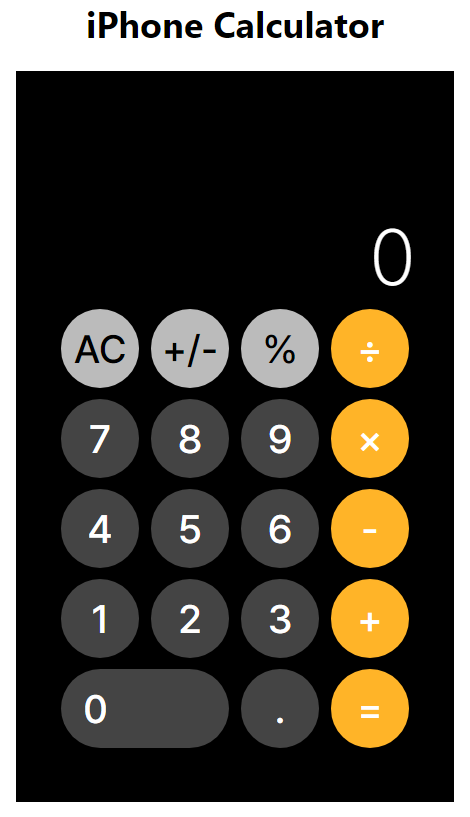
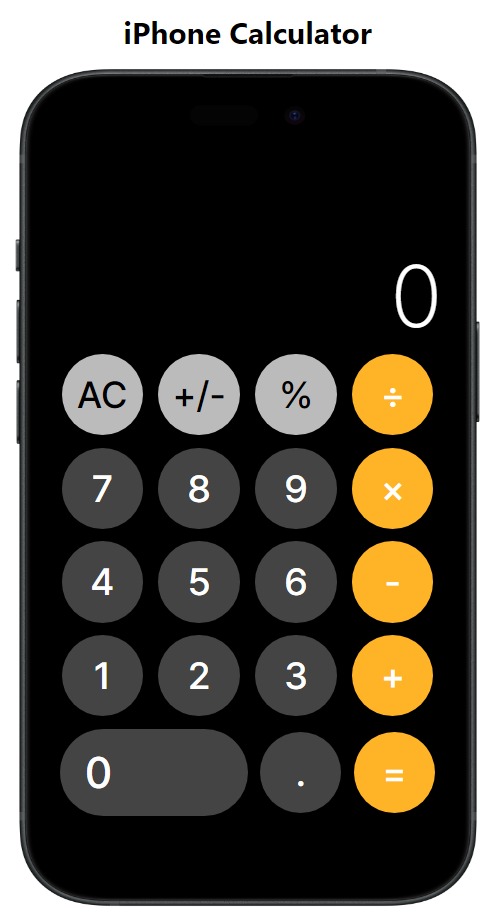
completed

diff --git a/src/App.js b/src/App.js
@@ -14,6 +14,13 @@ function App() {
   const [modePM, setModePM] = useState("");
   const [formula, setFormula] = useState("");
   const [equal, setEqual] = useState(0);
+  const resultFloat = parseFloat(Number(result).toFixed(8));
+  const resultString =
+    resultFloat > 100000000
+      ? resultFloat.toExponential()
+      : `${resultFloat}`.includes(".") > 0
+      ? `${resultFloat}`
+      : `${resultFloat}`.replace(/\B(?=(\d{3})+(?!\d))/g, ",");
 
   function calculation(op) {
     if (modeVar !== "") {
@@ -44,7 +51,6 @@ function App() {
           } else if (modePM === "-") {
             setFormula(equal - preResult * Number(result));
             setResult(`${equal - preResult * Number(result)}`);
-            if (modePM === "") setEqual(Number(result));
             setEqual(0);
             setModePM("");
           } else {
@@ -67,10 +73,9 @@ function App() {
           } else if (modePM === "-") {
             setFormula(equal - preResult / Number(result));
             setResult(`${equal - preResult / Number(result)}`);
-            if (modePM === "") setEqual(Number(result));
             setEqual(0);
             setModePM("");
-          }else {
+          } else {
             setFormula(preResult / Number(result));
             setResult(`${preResult / Number(result)}`);
             if (modePM === "") setEqual(Number(result));
@@ -81,16 +86,17 @@ function App() {
           if (modePM === "") setEqual(Number(result));
         }
       } else if (modeVar === "=") {
-        if (mode === "+") {
+        console.log(`preResult${preResult}`);
+        if (modePM === "+") {
           setFormula(preResult + equal);
           setResult(`${preResult + equal}`);
-        } else if (mode === "-") {
+        } else if (modePM === "-") {
           setFormula(preResult - equal);
           setResult(`${preResult - equal}`);
-        } else if (mode === "×") {
+        } else if (modePM === "×") {
           setFormula(preResult * equal);
           setResult(`${preResult * equal}`);
-        } else if (mode === "÷") {
+        } else if (modePM === "÷") {
           setFormula(preResult / equal);
           setResult(`${preResult / equal}`);
         }
@@ -99,7 +105,7 @@ function App() {
   }
 
   function handleResult(e) {
-    if (result.length === 10) {
+    if (resultString.length === 11) {
       return;
     } else {
       if (mode !== "") {
@@ -119,8 +125,10 @@ function App() {
 
   function noWhite(op) {
     if (mode === op) {
-      if (modeVar === "=") return "round orange";
-      else return "round white";
+      if (modeVar === "=") {
+        if (modePM === "+" || "-" || "×" || "÷") return "round white";
+        else return "round orange";
+      } else return "round white";
     } else {
       return "round orange";
     }
@@ -129,16 +137,13 @@ function App() {
   return (
     <div className="App">
       <div className="calc">
-        <h1>iPhone Calculator</h1>
+        <h2>iPhone Calculator</h2>
+        <img className="iPhoneBorder" src="iPhoneBorder.png" alt="아이폰 테두리"></img>
         <div className="calcBackground">
           <div className="clacBox">
             <div className="resultBox">
-              <div
-                className={
-                  `${Number(result)}`.length < 10 ? "result" : "result2"
-                }
-              >
-                {parseFloat(Number(result).toFixed(8)).toLocaleString()}
+              <div className={resultString.length < 10 ? "result" : "result2"}>
+                {resultString}
               </div>
             </div>
             <div className="buttonBox">
@@ -156,7 +161,8 @@ function App() {
                   modePM,
                   setModePM,
                   setEqual,
-                  formula
+                  formula,
+                  equal,
                 }}
               >
                 <Line1 />

diff --git a/src/App.css b/src/App.css
@@ -8,15 +8,25 @@
 
 .calc {
   display: block;
+  position: relative;
+}
+
+.iPhoneBorder {
+  width: 400px;
+  height: 700px;
+  position: absolute;
+  left: -25px;
+  top: 50px;
 }
 
 .calcBackground {
-  width: 390px;
+  width: 350px;
   height: 650px;
   background-color: #000;
   display: flex;
   justify-content: center;
   align-items: center;
+  border-radius: 45px;
 }
 
 .calcBox {
@@ -44,11 +54,12 @@
   float: right;
   margin-top: 80px;
   color: #fff;
-  font-size: 60px;
+  font-size: 56px;
   font-weight: 200;
   font-family: Pretendard, sans-serif;
   margin-bottom: 12px;
 }
+
 
 .buttonBox {
   width: 100%;
@@ -68,12 +79,12 @@
 .round {
   border-radius: 50%;
   background-color: #fff;
-  width: 70px;
-  height: 70px;
+  width: 65px;
+  height: 65px;
   margin: 5px;
   font-weight: 500;
   font-family: Pretendard, sans-serif;
-  font-size: 35px;
+  font-size: 30px;
   display: flex;
   justify-content: center;
   align-items: center;

diff --git a/src/component/Line1.js b/src/component/Line1.js
@@ -15,29 +15,22 @@ function Line1() {
     setModePM,
     setEqual,
     mode,
-    formula
+    formula,
   } = useContext(ContextBox);
   function resultClear() {
-    setResult("0");
-    if(modeVar === "+" || "-" || "÷" || "×"){
-      setMode(modeVar);
-    }else if(modeVar === "="){
-      setFormula(Number(formula));
-      setModePM("");
-      setMode("");
-    }
+    setResult("");
+    setFormula(0);
+    setMode("");
+    setModeVar("");
+    setModePM("");
+    setEqual(0);
   }
   function resultMinus() {
     if (result.length === 9) {
+      return;
     } else {
-      if (result.includes("-")) {
-        setResult(`${-Number(result)}`);
-      } else {
-        if (result === "0") {
-        } else {
-          setResult(`-${result}`);
-        }
-      }
+      if (result.includes("-")) setResult(`${-Number(result)}`);
+      else setResult(`-${result}`);
     }
   }
   function resultPercent() {

diff --git a/src/component/Line5.js b/src/component/Line5.js
@@ -12,6 +12,8 @@ function Line5() {
     setMode,
     modeVar,
     setModePM,
+    formula,
+    equal
   } = useContext(ContextBox);
   function demical() {
     if (result.includes(".")) {
@@ -31,8 +33,7 @@ function Line5() {
         onClick={() => {
           calculation("=");
           setModeVar("=");
-          setModePM("=");
-          if (modeVar !== "=") setMode(modeVar);
+          if (modeVar !== "=") setModePM(modeVar);
         }}
       >
         =

diff --git a/README.md b/README.md
@@ -1,7 +1,6 @@
 <div style="display: flex; justify-content: center; align-items: center;">
     <h1>아이폰 계산기 클론 코딩 과제물</h1>
     <span>
-    - AC 기능 추가중
     </span><br><br>
-    <img style="width: 300px" src="./public/iPhoneCalculator.png">
+    <img style="width: 300px" src="iPhoneCalculator.png">
 </div>
